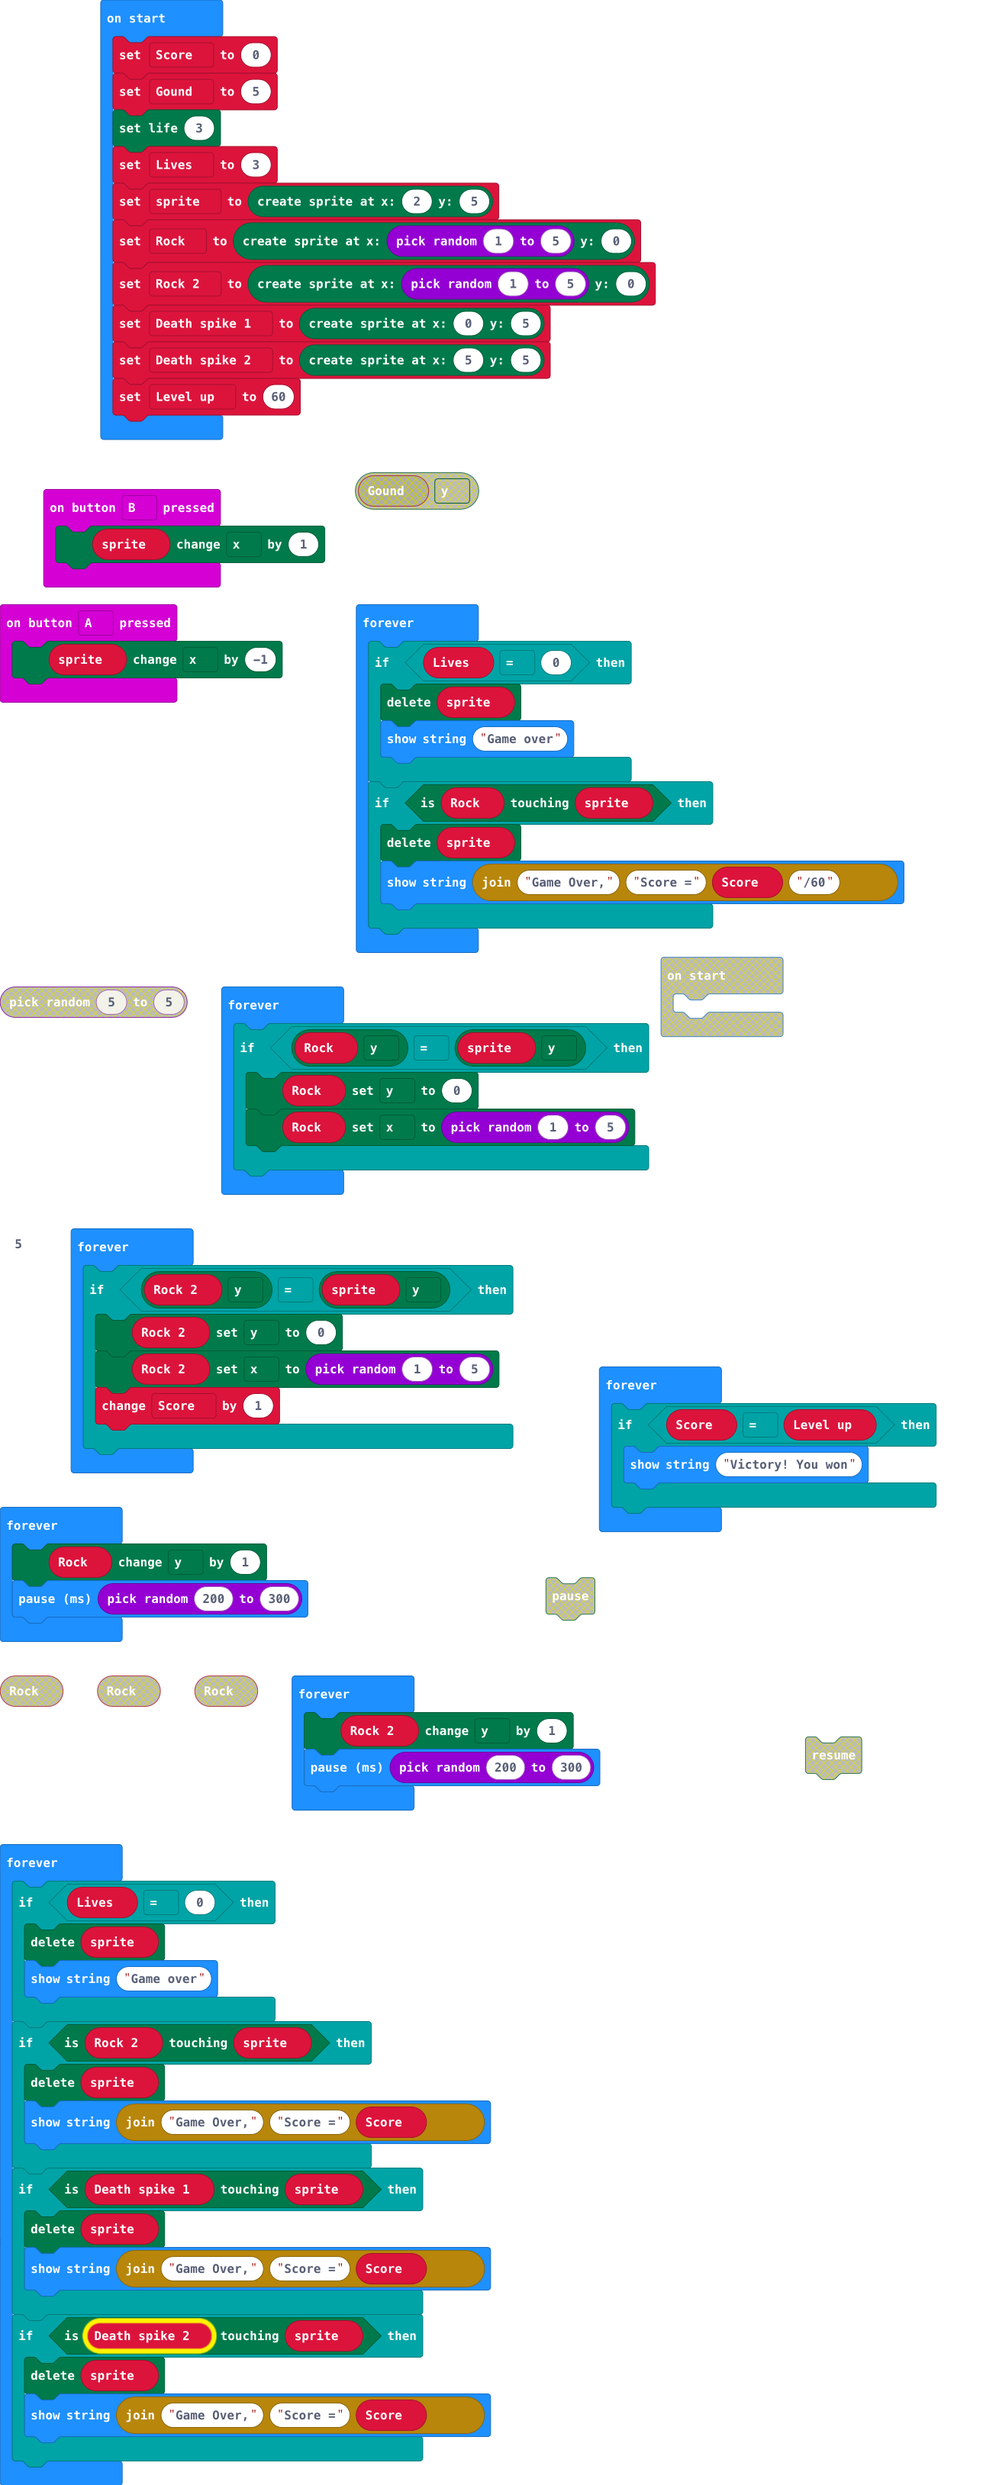
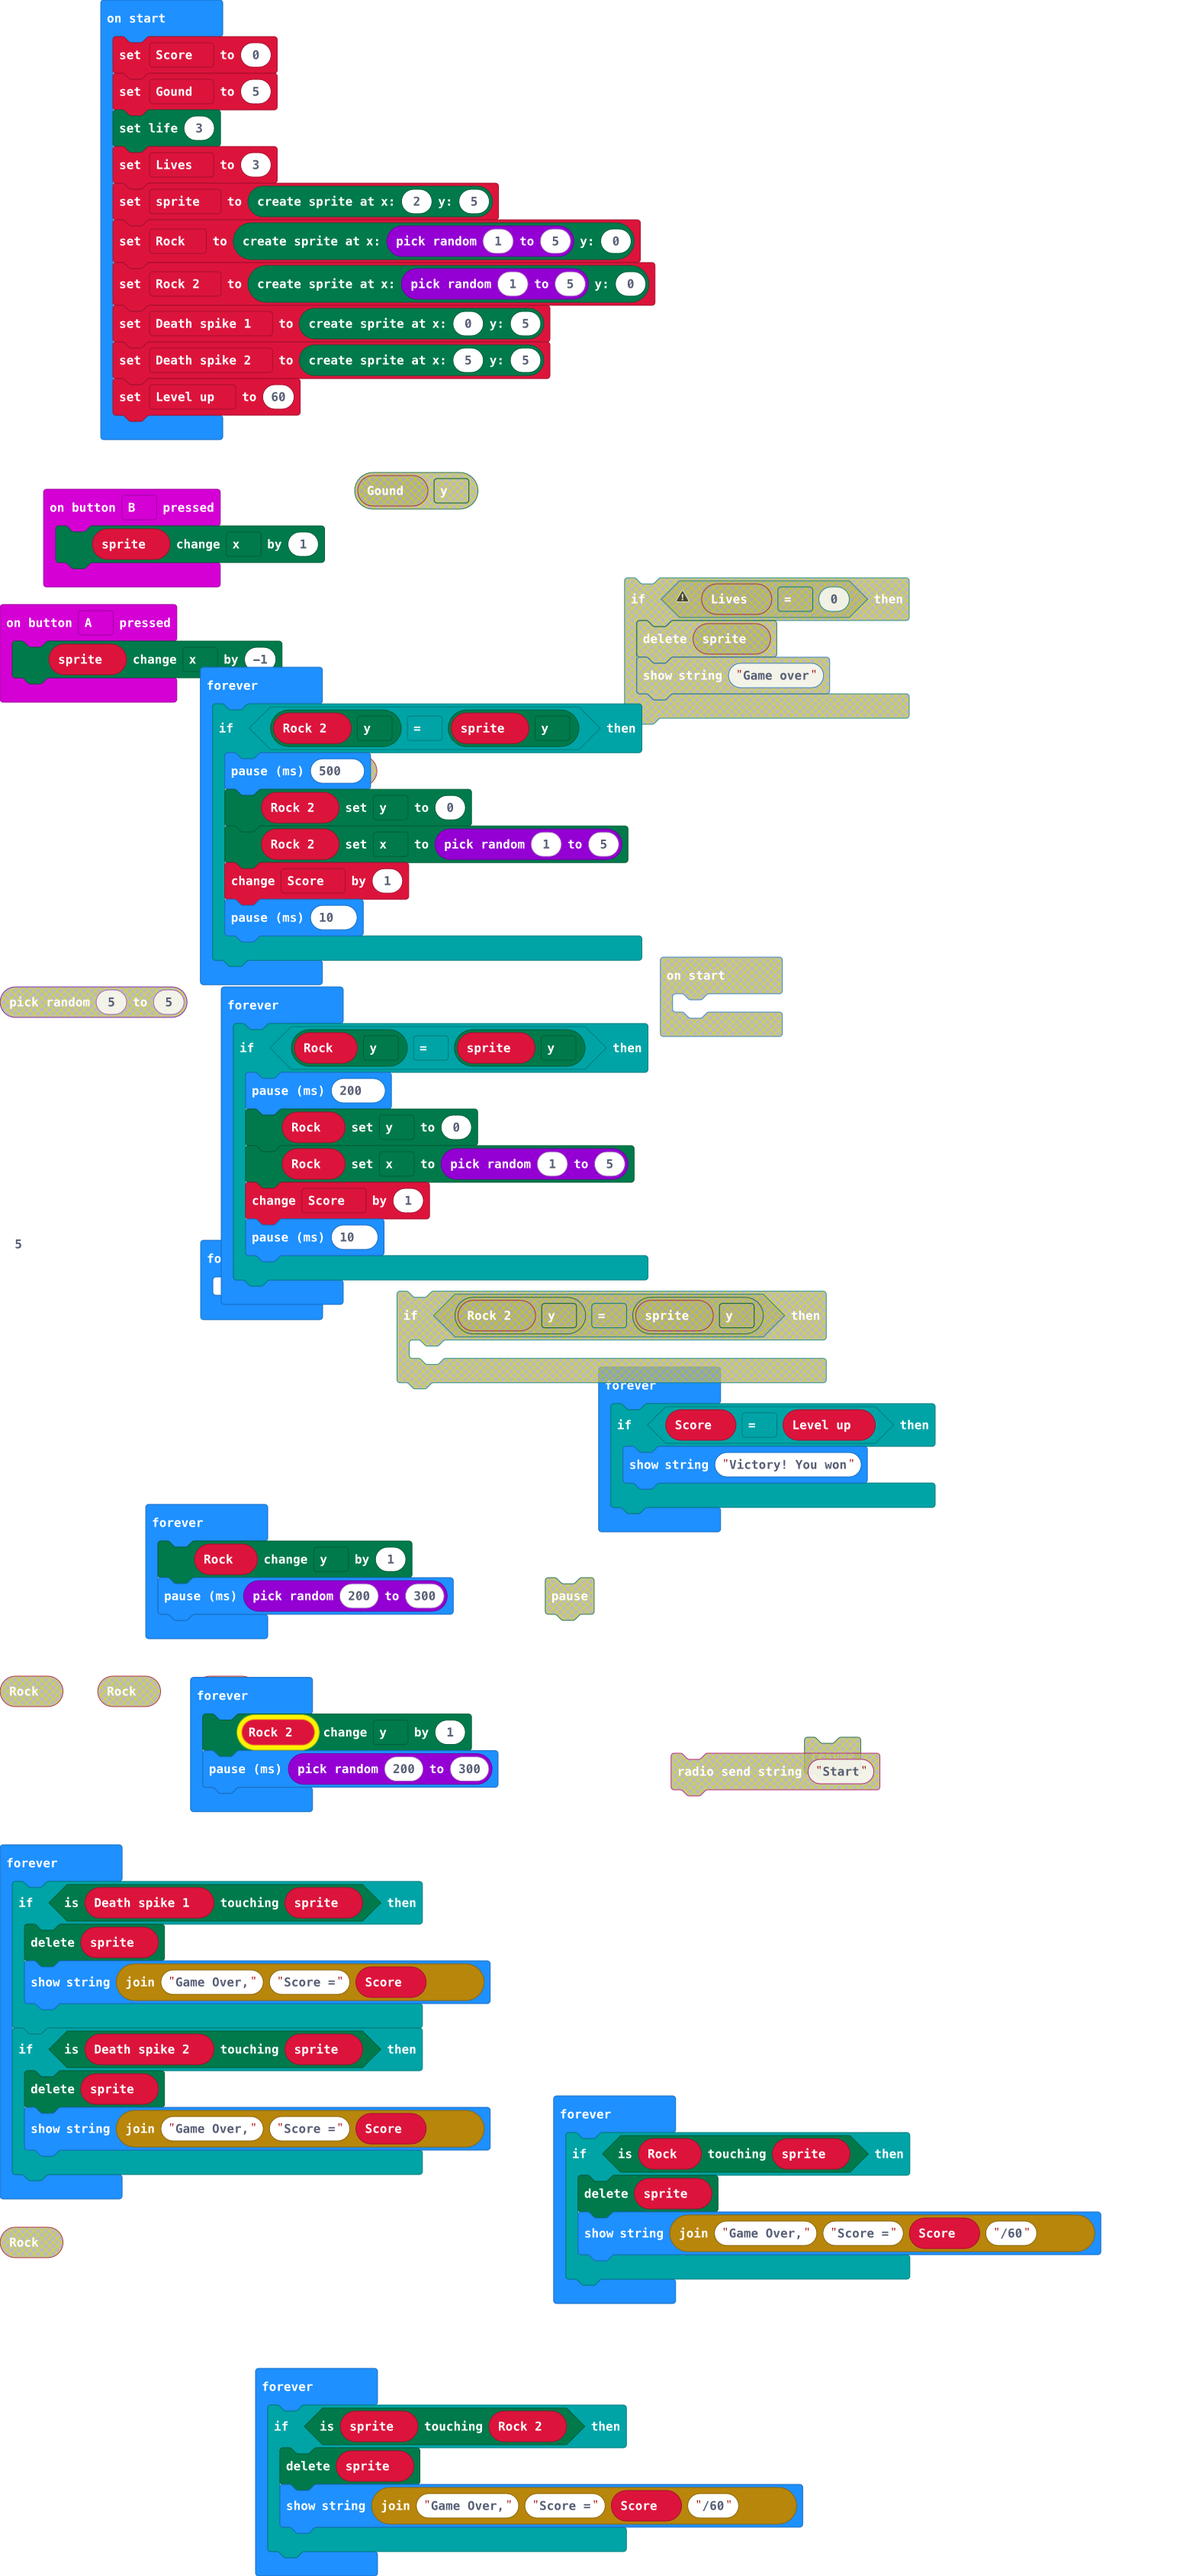
finally fixed a major bug that made it so sometimes the astroids didnt kill you. complete project now.

diff --git a/main.ts b/main.ts
@@ -16,27 +16,25 @@ let Death_spike_1 = game.createSprite(0, 5)
 let Death_spike_2 = game.createSprite(5, 5)
 let Level_up = 60
 basic.forever(function () {
-    if (Lives == 0) {
-        sprite.delete()
-        basic.showString("Game over")
-    }
-    if (Rock.isTouching(sprite)) {
-        sprite.delete()
-        basic.showString("Game Over," + "Score =" + Score + "/60")
+    if (Rock_2.get(LedSpriteProperty.Y) == sprite.get(LedSpriteProperty.Y)) {
+        basic.pause(500)
+        Rock_2.set(LedSpriteProperty.Y, 0)
+        Rock_2.set(LedSpriteProperty.X, randint(1, 5))
+        Score += 1
+        basic.pause(10)
     }
 })
 basic.forever(function () {
     if (Rock.get(LedSpriteProperty.Y) == sprite.get(LedSpriteProperty.Y)) {
+        basic.pause(200)
         Rock.set(LedSpriteProperty.Y, 0)
         Rock.set(LedSpriteProperty.X, randint(1, 5))
+        Score += 1
+        basic.pause(10)
     }
 })
 basic.forever(function () {
-    if (Rock_2.get(LedSpriteProperty.Y) == sprite.get(LedSpriteProperty.Y)) {
-        Rock_2.set(LedSpriteProperty.Y, 0)
-        Rock_2.set(LedSpriteProperty.X, randint(1, 5))
-        Score += 1
-    }
+	
 })
 basic.forever(function () {
     if (Score == Level_up) {
@@ -52,14 +50,6 @@ basic.forever(function () {
     basic.pause(randint(200, 300))
 })
 basic.forever(function () {
-    if (Lives == 0) {
-        sprite.delete()
-        basic.showString("Game over")
-    }
-    if (Rock_2.isTouching(sprite)) {
-        sprite.delete()
-        basic.showString("Game Over," + "Score =" + Score)
-    }
     if (Death_spike_1.isTouching(sprite)) {
         sprite.delete()
         basic.showString("Game Over," + "Score =" + Score)
@@ -67,5 +57,17 @@ basic.forever(function () {
     if (Death_spike_2.isTouching(sprite)) {
         sprite.delete()
         basic.showString("Game Over," + "Score =" + Score)
+    }
+})
+basic.forever(function () {
+    if (Rock.isTouching(sprite)) {
+        sprite.delete()
+        basic.showString("Game Over," + "Score =" + Score + "/60")
+    }
+})
+basic.forever(function () {
+    if (sprite.isTouching(Rock_2)) {
+        sprite.delete()
+        basic.showString("Game Over," + "Score =" + Score + "/60")
     }
 })
